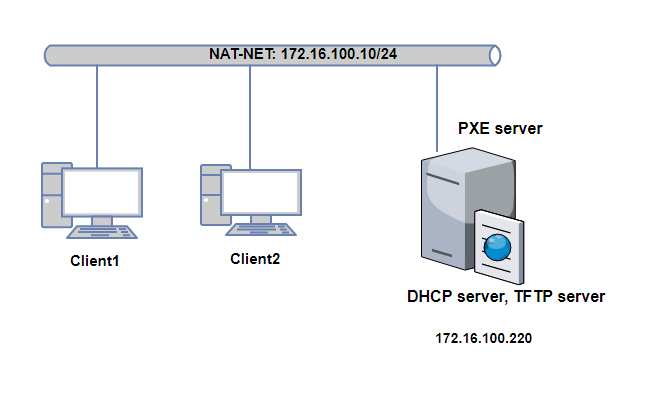
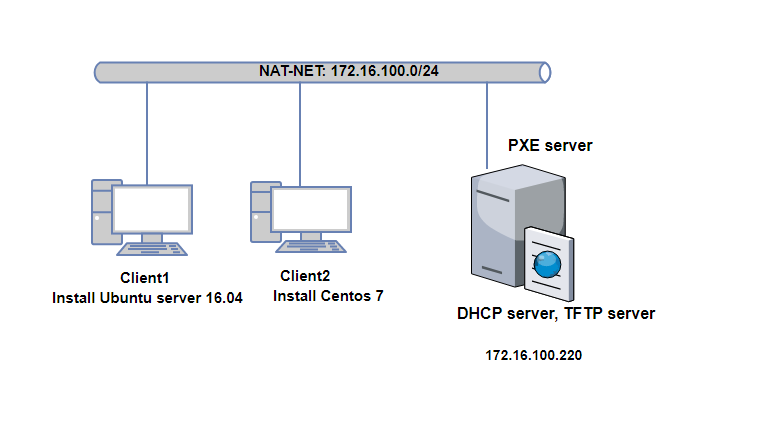
update lab PXE kickstart

diff --git a/TamNT/PXE-Kickstart/docs/2.Lab_PXE-kickstart.md b/TamNT/PXE-Kickstart/docs/2.Lab_PXE-kickstart.md
@@ -8,6 +8,10 @@
 
 [3.	Cài đặt và cấu hình TFTP server](#3)
 
+- [3.1. Cài đặt cấu hình TFTP server](#3.1)
+
+- [3.2. Bung các gói cần thiết từ file ISO](#3.2)
+
 [4.	Cấu hình PXE và kickstart](#4)
 
 - [4.1.	Cấu hình kickstart](#4.1)
@@ -36,7 +40,7 @@ Mục đích bài lab: Hiểu và thiết lập mô hình boot OS cho các clien
 - **Chuẩn bị**: Phần này thực hiện lab trên môi trường máy ảo Vmware workstation 12. Các máy ảo cấu hình như sau:  
 	-	Máy server: Ubuntu server 16.04 cài các dịch vụ DHCP server và TFTP server. Có NIC dải NAT-NET, địa chỉ 172.16.100.220  
 	-	Các máy client card mạng hỗ trợ PXE. Có ít nhất một card mạng dải NAT-NET
-
+	-	Client 1 cài OS Ubuntu server 16.04; Client 2 cài OS Centos 7  
 Sau đây là các bước cấu hình:
 
 <a name = '2'></a>
@@ -88,6 +92,9 @@ Sau đây là các bước cấu hình:
 <a name = '3'></a>
 # 3.	Cài đặt và cấu hình TFTP server 
 
+<a name = '3.1'></a>
+## 3.1. Cài đặt và cấu hình TFTP server 
+
 ### Cài đặt các gói phần mềm cần thiết cho TFTP server:
 
 `apt-get install ftpd-hpa inetutils-inetd -y`
@@ -106,27 +113,78 @@ Sau đây là các bước cấu hình:
 
 	`tftp    dgram   udp    wait    root    /usr/sbin/in.tftpd /usr/sbin/in.tftpd -s /var/lib/tftpboot`
 
-- Cấu hình thêm các file boot vào TFTP server: 
+- Tạo thư mục chứa các file boot TFTP: 
 
-	- Tạo thư mục chứa các file boot TFTP: 
-
-		`mkdir -p /var/lib/tftpboot/`
-
-	- Download các gói Image netboot cần thiết để cài đặt Ubuntu 16.04 64 bit từ Internet như sau: 
-
-		```
-		wget http://archive.ubuntu.com/ubuntu/dists/xenial-updates/main/installer-amd64/current/images/netboot/ldlinux.c32
-		wget http://archive.ubuntu.com/ubuntu/dists/xenial-updates/main/installer-amd64/current/images/netboot/pxelinux.0
-		wget --recursive http://archive.ubuntu.com/ubuntu/dists/xenial-updates/main/installer-amd64/current/images/netboot/ubuntu-installer/ --no-parent
-		cd archive.ubuntu.com/ubuntu/dists/xenial-updates/main/installer-amd64/current/images/netboot/ubuntu-installer
-		mv ubuntu-installer /var/lib/tftpboot/
-		cd /var/lib/tftpboot/
-		rm -rf archive.ubuntu.com
-		```
+	`mkdir -p /var/lib/tftpboot/`
 
 - Khởi động lại dịch vụ TFTP server: 
 	
 	`service tftpd-hpa restart`
+
+<a name = '3.2'></a>
+## 3.2.	Bung các gói cần thiết từ file ISO
+
+Để setup install OS cho các client lấy các gói phần mềm cần thiết trong quá trình cài đặt từ TFTP server local ta thực hiện các bước như sau:
+
+### Bước 1: Download các iso cần thiết cài đặt cho OS Ubuntu server 16.04 và Centos 7 như sau: 
+
+```
+wget http://releases.ubuntu.com/16.04/ubuntu-16.04.3-server-amd64.iso
+wget http://centos-hn.viettelidc.com.vn/7/isos/x86_64/CentOS-7-x86_64-DVD-1708.iso   
+```
+
+### Bước 2: Mount các file iso vừa tải vào thư mục `/mnt` để copy tới tftpd root (`/var/lib/tftpboot/`) cho các client download file `pxelinux.0` về để tiến hành cài đặt OS (`pxelinux.0` là một đoạn mã của bootloader cho phép client lúc đó chưa có hệ điều hành có được khả năng boot OS thông qua card mạng)
+
+`mount –o loop /root/ubuntu-16.04.3-server-amd64.iso /mnt`
+
+- Copy các file cần thiết trong quá trình netboot cho OS linux: 
+
+	```
+	cd /mnt
+	cp -fr install/netboot/* /var/lib/tftpboot/
+	```
+
+### Bước 3: Tạo thư mục chứa kenel và initrd cho từng OS:
+
+- **Ubuntu**: đã có sẵn do trước đó copy toàn bộ từ iso của ubuntu sang thư mục tftpd root.
+
+- **Centos**: Tạo thư mục mount cho iso centos: 
+
+	```
+	mkdir -p /mnt/centos7
+	mount -o loop1 /root/CentOS-7-x86_64-DVD-1708.iso /mnt/centos7
+	mkdir /var/lib/tftpboot/centos7
+	cp /mnt/centos7/images/pxeboot/vmlinuz  /var/lib/tftpboot/centos7
+	cp /mnt/centos7/images/pxeboot/initrd.img  /var/lib/tftpboot/centos7
+	```
+
+### Bước 4: Đưa các gói cần thiết trong quá trình cài đặt lên http server để client có thể download các gói phần mềm từ mạng local. Ở đây, cài http server lên luôn PXE server:
+
+- Cài đặt `apache2` để các máy client có thể download thông qua HTTP: 
+
+	`apt-get install apache2 -y`
+
+- Tạo các thư mục cho Ubuntu và Centos: 
+
+	```
+	mkdir -p /var/www/html/US/ # thư mục cho Ubuntu
+	mkdir -p /var/www/html/Centos/	#thư mục cho centos 7
+	```
+- Đẩy các file cần thiết cho quá trình cài đặt vào thư mục Web root: 
+
+	- Centos: 
+
+		```
+		cp -rf /mnt/centos7/* /var/www/html/Centos/
+		cd /mnt
+		rm -r centos7
+		```
+
+	- Ubuntu: Đối với Ubuntu, việc copy như Centos xảy ra lỗi cho client không download được gói phần mềm từ httpd. Khắc phục bằng cách mount trực tiếp iso ubuntu vào thư mục /var/www/html/US/
+
+		`mount -o loop /root/ubuntu-16.04.3-server-amd64.iso /var/www/html/US/`
+
+
 
 <a name = '4'></a>
 # 4.	Cấu hình PXE và kickstart
@@ -134,11 +192,7 @@ Sau đây là các bước cấu hình:
 <a name = '4.1'></a>
 ## 4.1.	Cấu hình kickstart
 
-- Cài đặt apache2 để các máy client có thể download file kickstart thông qua HTTP: 
-
-	`apt-get install apache2 -y`
-
-- Tạo file kickstart có nội dung tùy chỉnh như sau:
+- Tạo file kickstart cho client cài đặt OS Ubuntu server 16.04 có nội dung tùy chỉnh như sau:
 
 	```
 	# set language to use during installation
@@ -151,7 +205,7 @@ Sau đây là các bước cấu hình:
 	# reboot the system after installation
 	reboot
 	# config repo source.list
-	url --url http://vn.archive.ubuntu.com/ubuntu/
+	url --url http://172.16.100.10/US/
 
 	# Sets up the authentication options for the system.
 	auth --useshadow --enablemd5
@@ -183,7 +237,7 @@ Sau đây là các bước cấu hình:
 
 	# Configures network information
 
-	network --bootproto=dhcp --device=ens34 --active
+	#network --bootproto=dhcp --device=ens34 --active
 	network --bootproto=dhcp --device=ens33 --active
 
 	# Do not configure the X Window System
@@ -196,14 +250,75 @@ Sau đây là các bước cấu hình:
 
 	## Run script after installation
 	%post
-	apt-get update -y && apt-get upgrade -y
+	sed -i 's/172.16.100.10/vn.archive.ubuntu.com/g' /etc/apt/sources.list
+	sed -i 's/US/ubuntu/g' /etc/apt/sources.list
+	apt-get update -y && apt-get upgrade –y
+	mkdir /root/test
 	```
 
 	- Lưu file lại với tên `kickstartForUS16.04.cfg` 
 
-	- Chuyển file `kickstartForUS16.04.cfg` vào thư mục web root như sau: 
+	- Chuyển file kickstartForUS16.04.cfg vào thư mục web root như sau: 
 
 		`mv kickstartForUS16.04.cfg /var/www/html/`
+
+- Tạo file kickstart cho client cài đặt OS Centos 7 có nội dung tùy chỉnh như sau:
+
+	```
+	#version=RHEL7
+	# System authorization information
+	auth --enableshadow --passalgo=sha512
+	# Use network installation
+	url --url="http://172.16.100.10/Centos/"
+	# Run the Setup Agent on first boot
+	firstboot --enable
+	ignoredisk --only-use=sda
+	reboot
+	# Keyboard layouts
+	keyboard --vckeymap=us --xlayouts='us'
+	# System language
+	lang en_US.UTF-8
+	# Network information
+	#network  --bootproto=dhcp --device=eno33554960 --ipv6=auto --activate --nodefault
+	network  --bootproto=dhcp --device=eno16777736 --ipv6=auto --activate
+	network  --hostname=CentosTest
+	# Root password
+	rootpw toilatam
+	user ttp --name=ttp --password=toilatam
+	# System services
+	services --enabled="chronyd"
+	# System timezone
+	timezone Asia/Ho_Chi_Minh
+	# System bootloader configuration
+	bootloader --location=mbr 
+	# Partition clearing information
+	clearpart --all
+	# Disk partitioning information
+	part pv.20 --fstype="lvmpv" --ondisk=sda --size=19979
+	part /boot --fstype="xfs" --ondisk=sda --size=500
+	volgroup centos --pesize=4096 pv.20
+	logvol /  --fstype="xfs" --grow --maxsize=51200 --size=1024 --name=root --vgname=centos
+	logvol swap  --fstype="swap" --size=2048 --name=swap01 --vgname=centos
+
+	%packages
+	@compat-libraries
+	@core
+	wget
+	%end
+	%post
+	mkdir -p /root/test
+	cd /root/test
+	wget https://raw.githubusercontent.com/ThanhTamPotter/thuctap012017/master/TamNT/PXE-Kickstart/config_files/anaconda-ks-forCentos7.cfg
+	%end
+	```
+
+	- Lưu file lại với tên `anaconda-ks.cfg` 
+
+	- Chuyển file kickstartForUS16.04.cfg vào thư mục web root như sau: 
+
+		`mv anaconda-ks.cfg /var/www/html/`
+
+
 
 <a name = '4.2'></a>
 ## 4.2.	Cấu hình PXE
@@ -218,36 +333,39 @@ Sau đây là các bước cấu hình:
 	default ubuntu-installer/amd64/boot-screens/vesamenu.c32
 	DISPLAY boot.txt
 
-	DEFAULT Ubuntu_server_16.04_Install
-
 	LABEL Ubuntu_server_16.04_Install
-	        kernel ubuntu-installer/amd64/linux
-	        append ks=http://172.16.100.220/kickstartForUS16.04.cfg ksdevice=ens33 vga=normal initrd=ubuntu-installer/amd64/initrd.gz --
+			kernel ubuntu-installer/amd64/linux
+			append ks=http://172.16.100.220/kickstartForUS16.04.cfg ksdevice=ens33 vga=normal initrd=ubuntu-installer/amd64/initrd.gz --
 
+	LABEL Centos_7_x64_Install
+	kernel centos7/vmlinuz
+	append initrd=centos7/initrd.img inst.ks=http://172.16.100.10/anaconda-ks.cfg inst.vnc inst.vncpassword=password
 	prompt 0
 	timeout 0
+
 	```
 
-- Trong đó, cấu hình ksdevice để chỉ tới NIC của client (ở đây biết tên của NIC của client là `ens33`) dùng để setup hệ thống.
+
 
 <a name = '5'></a>
 # 5.	Client boot OS từ PXE
 
-- Tạo một máy ảo Client mới chưa setup hệ điều hành như sau: 
+- Tạo một máy ảo Client1 mới chưa setup hệ điều hành như sau: 
 
 	![img](../images/2.2.png)
 
 	![img](../images/2.3.png)
 
-- Sau đó, thêm 2 card mạng cho máy client, một card NAT-NET và một card dải host-only như sau:
-
-	![img](../images/2.4.png)
 
 - Bật máy ảo lên, ta có giao diện hiển thị như sau: 
 
 	![img](../images/2.5.png)
 
-- Sau khi cài đặt xong, máy client có giao diện như sau: 
+- Sau khi có IP và download được file pxelinux.0 client sẽ tự động load menu boot lựa chọn boot  như sau:
+
+	![img](../images/2.10.png)
+
+- Lựa chọn OS cần cài đặt. Sau khi cài đặt xong, máy client1 có giao diện như sau: 
 
 	![img](../images/2.6.png)
 
@@ -255,11 +373,13 @@ Sau đây là các bước cấu hình:
 
 	![img](../images/2.7.png)
 
-- Kiểm tra lại các thông tin đã cấu hình trong kickstart như user `ttp`, setup `openssh-server`, `timezone` và repo sourcelist đều chính xác:
+- Kiểm tra lại các thông tin đã cấu hình trong kickstart như user `ttp`, setup `openssh-server`, `timezone` và repo sourcelist đã được đổi sang repo public (trong script phần %post) đều chính xác như sau:
 
 	![img](../images/2.8.png)
 
 	![img](../images/2.9.png)
+
+- Tương tự với Client 2. 
 
 <a name = '6'></a>
 # 6.	Tham khảo
@@ -267,4 +387,5 @@ Sau đây là các bước cấu hình:
 [1] configuration kickstart: https://access.redhat.com/documentation/en-US/Red_Hat_Enterprise_Linux/6/html/Installation_Guide/ch-kickstart2.html   
 [2] https://help.ubuntu.com/community/PXEInstallServer  
 [3] https://github.com/congto/ghichep-PXE-kickstart/blob/master/ghichep-PXE-kickstart.md   
-[4] https://debian-administration.org/article/478/Setting_up_a_server_for_PXE_network_booting    
+[4] https://debian-administration.org/article/478/Setting_up_a_server_for_PXE_network_booting  
+[5] https://www.tecmint.com/multiple-centos-installations-using-kickstart/   
